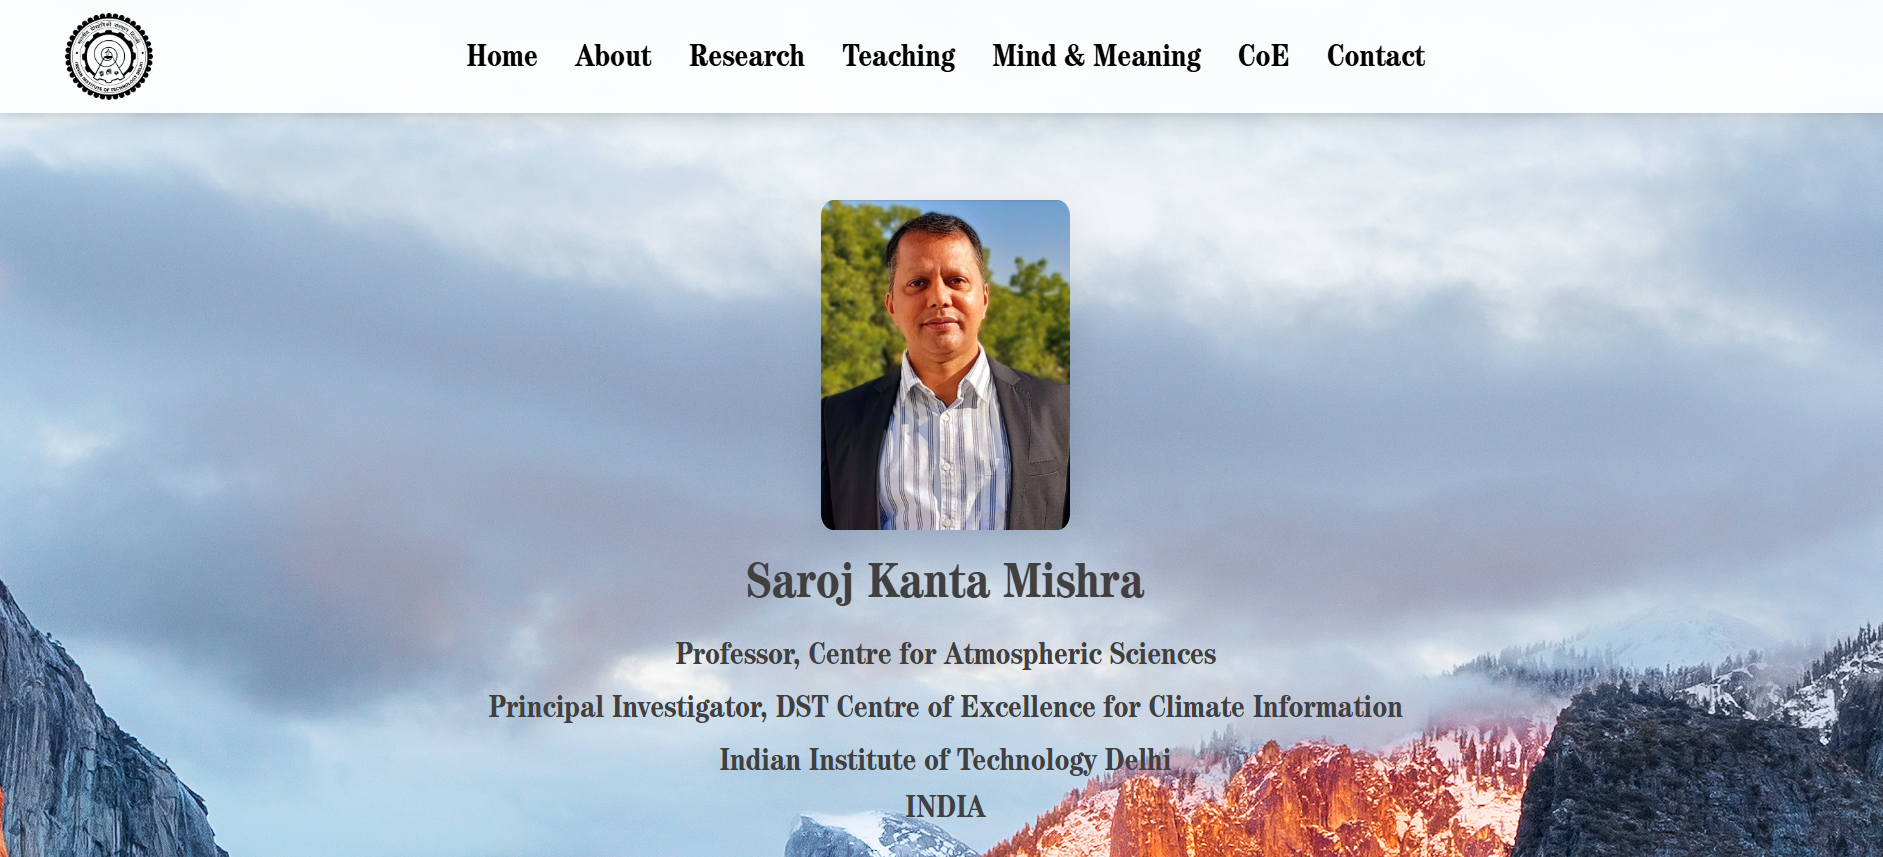
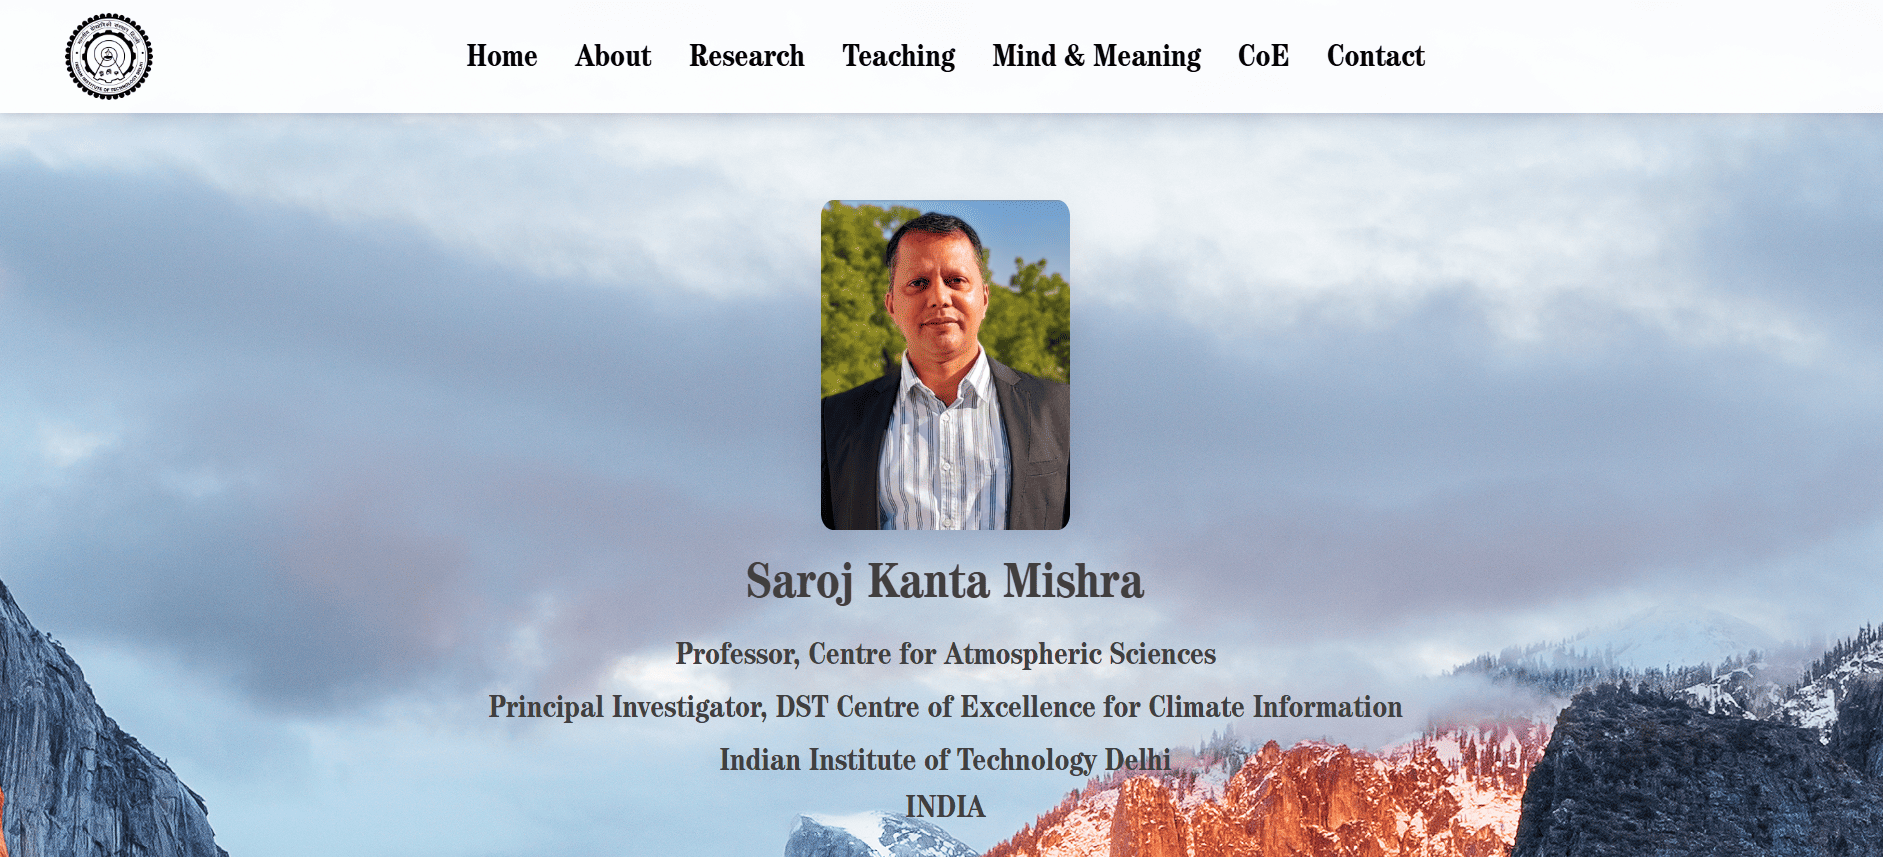
website_structure_updated

diff --git a/src/components/sections/About/About.jsx b/src/components/sections/About/About.jsx
@@ -24,8 +24,8 @@ const About = () => {
     name: "Shailesh K.",
     title: "Data Science & Engineering Student",
     location: "Bhopal, India",
-    email: "shailesh22@iiserb.ac.in",
-    phone: "+91 900994457_",
+    email: "shailesh22@iiserb.ac.in ",
+    phone: "+91",
     website: "https://shailesh22290.github.io",
     joinDate: "December 2022"
   };
@@ -319,18 +319,18 @@ case 'interests':
                   <Mail className="w-5 h-5 mr-3 text-green-500" />
                   <span>{personalInfo.email}</span>
                 </div>
-                <div className="flex items-center text-gray-700 dark:text-gray-300">
+                {/* <div className="flex items-center text-gray-700 dark:text-gray-300">
                   <Phone className="w-5 h-5 mr-3 text-purple-500" />
                   <span>{personalInfo.phone}</span>
-                </div>
+                </div> */}
                 <div className="flex items-center text-gray-700 dark:text-gray-300">
                   <Globe className="w-5 h-5 mr-3 text-orange-500" />
                   <span>{personalInfo.website}</span>
                 </div>
-                <div className="flex items-center text-gray-700 dark:text-gray-300">
+                {/* <div className="flex items-center text-gray-700 dark:text-gray-300">
                   <Calendar className="w-5 h-5 mr-3 text-red-500" />
                   <span>Since {personalInfo.joinDate}</span>
-                </div>
+                </div> */}
               </div>
 
               <div className="mt-8 space-y-3">
@@ -339,10 +339,11 @@ case 'interests':
                   <Download className="w-5 h-5 mr-2" />
                   Download CV
                 </button> </a>
-                {/* <button className="w-full bg-gray-100 hover:bg-gray-200 dark:bg-gray-700 dark:hover:bg-gray-600 text-gray-800 dark:text-gray-200 font-semibold py-3 px-6 rounded-lg transition-colors duration-200 flex items-center justify-center">
+                    <a href="/projects" target="_blank" rel="noopener noreferrer" className="mt-3 block">
+                <button className="w-full bg-gray-100 hover:bg-gray-200 dark:bg-gray-700 dark:hover:bg-gray-600 text-gray-800 dark:text-gray-200 font-semibold py-3 px-6 rounded-lg transition-colors duration-200 flex items-center justify-center">
                   <ExternalLink className="w-5 h-5 mr-2" />
                   View Projects
-                </button> */}
+                </button></a>
               </div>
             </div>
           </div>

diff --git a/src/data/projects.js b/src/data/projects.js
@@ -2,9 +2,9 @@ export const projects = [
   // 🌍 Research
   {
     id: 1,
-    title: "Ensemble Optimization for Monsoon Prediction",
-    description: "Developed automated stopping-point detection to optimize computational cost in large-scale monsoon prediction ensembles.",
-    longDescription: "At IIT Delhi's DST Centre of Excellence for Climate Information, I designed a stopping criterion for ensemble runs that reduces redundant computation in climate simulations. Analyzed long-term datasets (CESM: 50 years, MPI: 100 years, PPE: 262 years) using ML + statistical methods to improve efficiency in monsoon prediction models.",
+    title: "Optimization for Monsoon Prediction",
+    description: "Working to optimize computational cost in large-scale monsoon predictions.",
+    longDescription: "At IIT Delhi's DST Centre of Excellence for Climate Information, I am working on a criterion that reduces redundant computation in climate simulations. Analyzed long-term datasets using ML + statistical methods to improve efficiency in monsoon prediction models.",
     category: "Research",
     type: "Machine Learning",
     technologies: ["Python", "Pandas", "Scikit-learn", "Matplotlib"],
@@ -25,8 +25,8 @@ export const projects = [
     {
     id: 2,
     title: "VR-based Urban Safety Perception",
-    description: "Designed a VR–biometrics–NLP framework for studying multisensory threat perception in urban environments.",
-    longDescription: "At IISER Bhopal’s GeoAI4Cities Lab, developed an integrated VR framework that combines biometrics and NLP to assess women's perception of safety. Extracted visual, audio, and semantic features from 360° VR urban scenes and correlated them with stress and survey responses. Developed an LSTM model for predicting threat levels.",
+    description: "Research project exploring how virtual reality can be used to study human perceptions of safety in urban environments.",
+    longDescription: "At IISER Bhopal’s GeoAI4Cities Lab, Developing a VR-based research framework to study how people perceive safety in urban environments. The system integrates multiple data sources from immersive 360° scenes and explores links between environmental cues and participants’ responses. The project also investigates machine learning approaches for analyzing perception patterns.",
     category: "Research",
     type: "AI/ML",
     technologies: ["Unity3D", "Python", "LSTM", "NLP"],

diff --git a/src/components/sections/Home/Hero.jsx b/src/components/sections/Home/Hero.jsx
@@ -112,7 +112,7 @@ const Hero = () => {
         </div>
 
         {/* Floating Data Particles */}
-        <div className="absolute inset-0 opacity-20">
+        <div className="absolute inset-0 opacity-30">
           {Array.from({ length: 20 }, (_, i) => (
             <motion.div
               key={`particle-${i}`}
@@ -136,7 +136,7 @@ const Hero = () => {
         </div>
 
         {/* Background Chart Visualization */}
-        <div className="absolute top-1/4 right-10 w-64 h-32 opacity-5">
+        <div className="absolute top-1/4 right-10 w-64 h-32 opacity-15">
           <svg viewBox="0 0 200 100" className="w-full h-full">
             {/* Chart background */}
             <rect width="200" height="100" fill="transparent" stroke="rgb(59 130 246)" strokeWidth="1" />
@@ -182,7 +182,7 @@ const Hero = () => {
         </div>
 
         {/* Mathematical Formulas */}
-        <div className="absolute top-20 left-10 text-blue-400 dark:text-blue-300 font-mono text-sm opacity-30 space-y-2">
+        <div className="absolute top-20 left-10 text-blue-400 dark:text-blue-300 font-mono text-sm opacity-70 space-y-2">
           <motion.div
             initial={{ opacity: 0, x: -20 }}
             animate={{ opacity: 0.2, x: 0 }}
@@ -207,7 +207,7 @@ const Hero = () => {
         </div>
 
         {/* Neural Network Representation */}
-        <div className="absolute bottom-20 right-20 w-48 h-32 opacity-20">
+        <div className="absolute bottom-20 right-20 w-48 h-32 opacity-25">
           <svg viewBox="0 0 150 100" className="w-full h-full">
             {/* Input layer */}
             {Array.from({ length: 4 }, (_, i) => (
@@ -290,7 +290,7 @@ const Hero = () => {
         </div>
 
         {/* Binary Data Stream */}
-        <div className="absolute inset-0 pointer-events-none overflow-hidden opacity-5">
+        <div className="absolute inset-0 pointer-events-none overflow-hidden opacity-10">
           {Array.from({ length: 6 }, (_, i) => (
             <motion.div
               key={`binary-${i}`}

diff --git a/index.html b/index.html
@@ -6,14 +6,25 @@
     <meta name="viewport" content="width=device-width, initial-scale=1.0" />
     <title>Shailesh K. - Portfolio</title>
 
-    <!-- Browser Tab Logo (Favicon) -->
+    <!-- ✅ SEO Meta Tags -->
+    <meta name="description" content="Portfolio of Shailesh Kachhi - Data Science and Research student at IISER Bhopal. Explore projects on AI, Machine Learning, Climate Research, AR/VR, and more." />
+    <meta name="keywords" content="Shailesh, Shailesh Kachhi, IISERB, IISER Bhopal, Data Scientist, AI, Machine Learning, Climate Research, AR VR, Portfolio" />
+    <meta name="author" content="Shailesh Kachhi" />
+
+    <!-- ✅ Open Graph / Social Media Preview -->
+    <meta property="og:title" content="Shailesh K. - Portfolio" />
+    <meta property="og:description" content="Portfolio of Shailesh Kachhi - Data Science and Research student at IISER Bhopal." />
+    <meta property="og:image" content="https://shailesh22290.github.io/assets/images/profile.jpg" />
+    <meta property="og:url" content="https://shailesh22290.github.io" />
+    <meta property="og:type" content="website" />
+
+   
     <link rel="icon" type="image/png" href="/assets/images/profile.jpg" />
   </head>
   <body>
- 
-
     <div id="root"></div>
 
+ 
     <script type="module" src="/src/main.jsx"></script>
   </body>
 </html>

diff --git a/src/components/sections/Contact/Contact.jsx b/src/components/sections/Contact/Contact.jsx
@@ -49,17 +49,17 @@ const Contact = () => {
     {
       icon: Mail,
       label: 'Email',
-      value: 'shailesh22@iiserb.ac.in',
+      value: 'shailesh22@iiserb.ac.in / shaileshkachhi786@gmail.com',
       href: 'mailto:shailesh22@iiserb.ac.in',
       description: 'Preferred method for detailed discussions'
     },
-    {
-      icon: Phone,
-      label: 'Phone',
-      value: '+91 9009944572',
-      href: 'tel:+919009944572',
-      description: 'Available Mon-Sat, 10AM-6PM IST'
-    },
+    // {
+    //   icon: Phone,
+    //   label: 'Phone',
+    //   value: '+91',
+    //   href: 'tel:+91',
+    //   description: 'Available Mon-Sat, 10AM-6PM IST'
+    // },
     {
       icon: MapPin,
       label: 'Location',

diff --git a/src/components/sections/Contact/SocialLinks.jsx b/src/components/sections/Contact/SocialLinks.jsx
@@ -16,14 +16,14 @@ const SocialLinks = ({ size = 'default', showLabels = true, className = '' }) =>
   const socialLinks = [
     {
       name: 'GitHub',
-      url: 'https://github.com/username',
+      url: 'https://github.com/shailesh22290',
       icon: Github,
       color: 'hover:bg-gray-100 dark:hover:bg-gray-700',
       description: 'Code repositories and open source projects'
     },
     {
       name: 'LinkedIn',
-      url: 'https://linkedin.com/in/username',
+      url: 'https://www.linkedin.com/in/shailesh-kachhi-681a041a2/',
       icon: Linkedin,
       color: 'hover:bg-blue-50 dark:hover:bg-blue-900',
       description: 'Professional network and career updates'

diff --git a/src/components/common/Header/MobileMenu.jsx b/src/components/common/Header/MobileMenu.jsx
@@ -7,11 +7,13 @@ const MobileMenu = ({ isOpen }) => {
     { path: '/', label: 'Home' },
     { path: '/about', label: 'About' },
     { path: '/projects', label: 'Projects' },
-    { path: '/publications', label: 'Publications' },
+    // { path: '/publications', label: 'Publications' },
     { path: '/experience', label: 'Experience' },
-    { path: '/talks', label: 'Talks' },
+    { path: '/consultancy', label: 'Consultancy' },
+    // { path: '/talks', label: 'Talks' },
     { path: '/education', label: 'Education' },
     { path: '/blog', label: 'Blog' },
+    { path: '/resources', label: 'Resources' },
     { path: '/contact', label: 'Contact' },
   ];
 

diff --git a/src/components/common/Footer/Footer.jsx b/src/components/common/Footer/Footer.jsx
@@ -6,8 +6,8 @@ const Footer = () => {
   const currentYear = new Date().getFullYear();
 
   const socialLinks = [
-    { icon: Github, href: 'https://github.com/yourusername', label: 'GitHub' },
-    { icon: Linkedin, href: 'https://linkedin.com/in/yourusername', label: 'LinkedIn' },
+    { icon: Github, href: 'https://github.com/shailesh22290', label: 'GitHub' },
+    { icon: Linkedin, href: 'https://www.linkedin.com/in/shailesh-kachhi-681a041a2/', label: 'LinkedIn' },
     // { icon: Twitter, href: 'https://twitter.com/yourusername', label: 'Twitter' },
     { icon: Mail, href: 'mailto:your.email@domain.com', label: 'Email' },
   ];

diff --git a/src/components/sections/Blog/Blog.jsx b/src/components/sections/Blog/Blog.jsx
@@ -24,8 +24,8 @@ const Blog = () => {
       setError(null);
       
       try {
-        console.log('Loading posts from src/components/sections/Blog/posts.json...');
-        const response = await fetch('src/components/sections/Blog/posts.json');
+        console.log('Loading posts from /posts.json...');
+        const response = await fetch('/posts.json');
 
         if (!response.ok) {
           throw new Error(`HTTP error! status: ${response.status}`);
